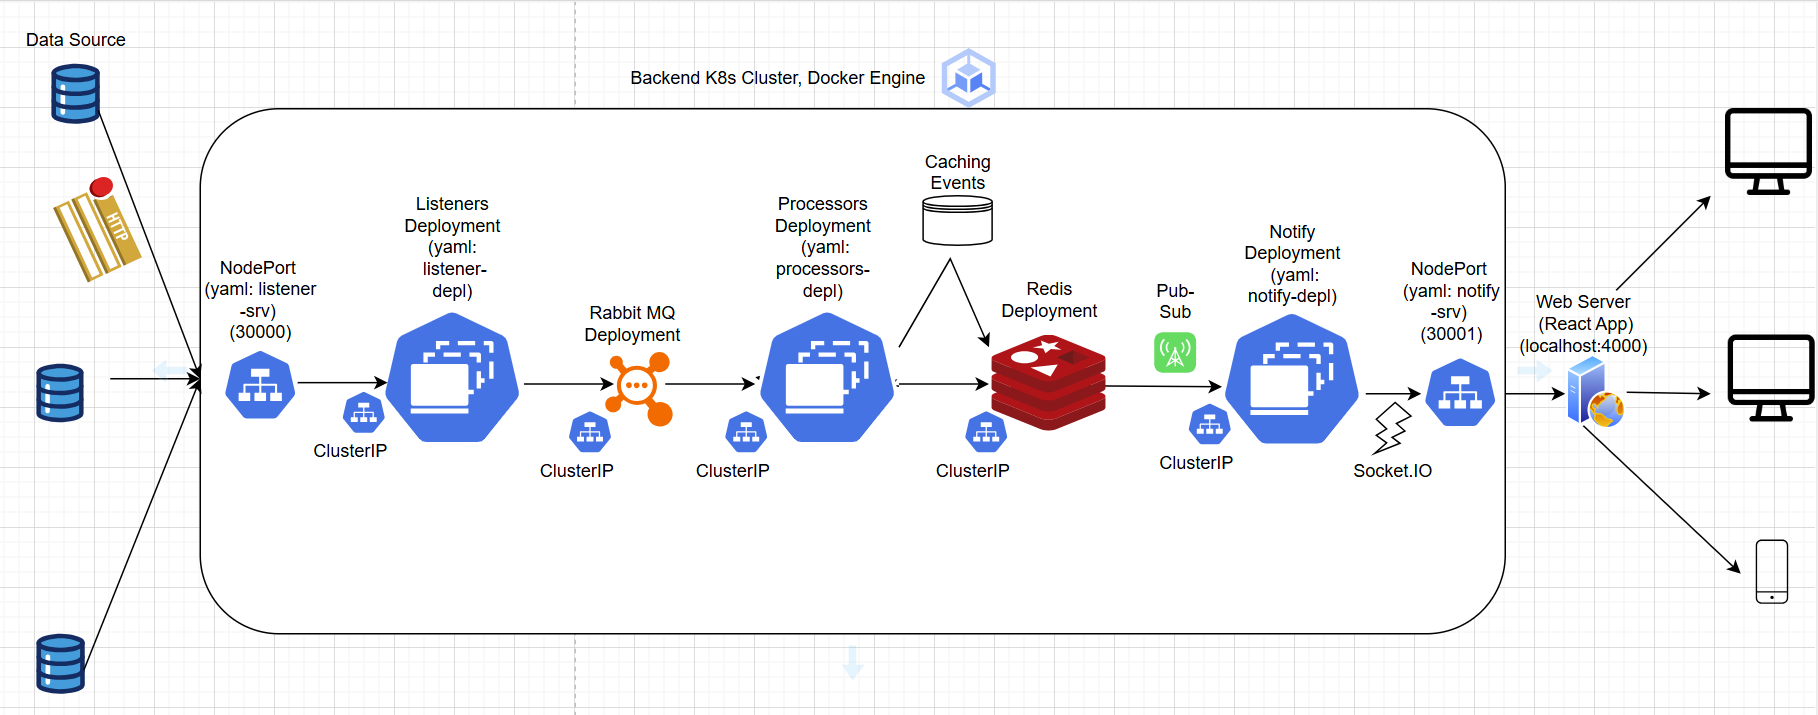
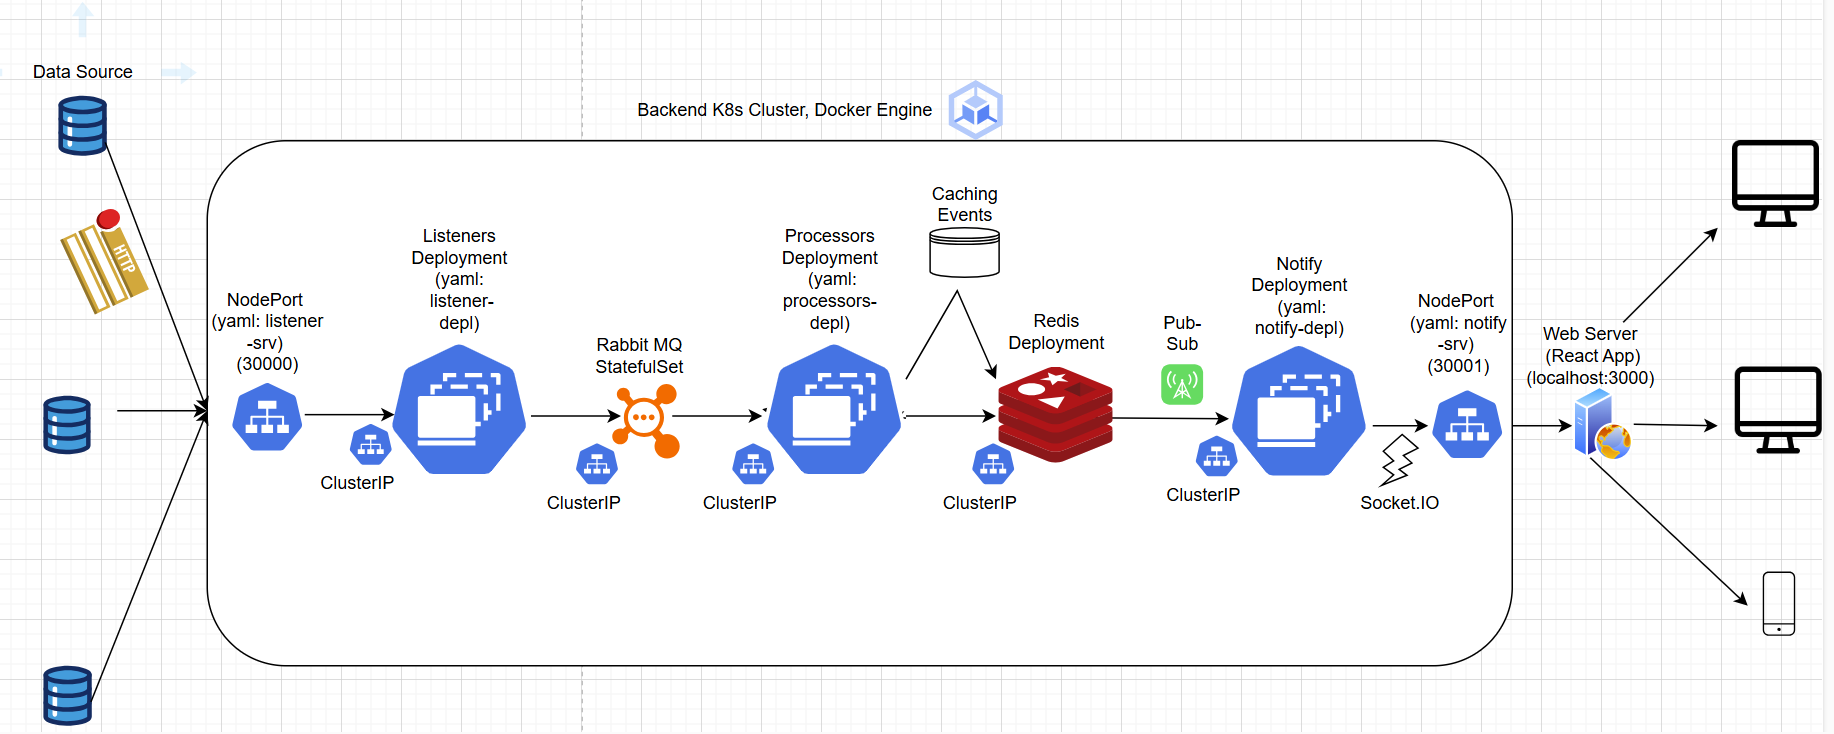
WIP

diff --git a/backend/listener-srv/src/config/config.ts b/backend/listener-srv/src/config/config.ts
@@ -6,7 +6,7 @@ dotenv.config({ path: __dirname + '../../../.env' });
 const Settings: Config = {
     port: process.env.PORT ? parseInt(process.env.PORT) : 4001,
     from_listener_queue_name: process.env.FROM_LISTENER_QUEUE_NAME || 'raw-alerts',
-    rabbit_address: process.env.MODE === 'development' ? 'amqp://guest:guest@localhost:5672' : `amqp://admin:password@rabbitmq-cluster-ip-srv`,
+    rabbit_address: process.env.MODE === 'development' ? 'amqp://guest:guest@host.docker.internal' : `amqp://admin:password@rabbitmq-cluster-ip-srv`,
 };
 
 export default Settings;

diff --git a/backend/alert-generator/src/index.ts b/backend/alert-generator/src/index.ts
@@ -18,7 +18,9 @@ rl.question('How many requests per minute? ', (answer) => {
     }
 
     const interval = 60000 / requestsPerMinute;
-    const url = 'http://localhost:30000/api/alerts'; // Replace with the actual URL of listener0srv
+    const port = process.env.PORT || 4000; // Default port if not provided in environment variables
+    const address = process.env.ADDRESS || 'localhost'
+    const url = `http://${address}:${port}/api/alerts`; // Replace with the actual URL of listener0srv
 
     const sendRequest = () => {
         const event = {

diff --git a/backend/listener-srv/src/index.ts b/backend/listener-srv/src/index.ts
@@ -4,13 +4,11 @@ import { router } from './routers';
 import { connectRabbit } from "./common";
 
 const app = express();
-const PORT = Settings.port;
-
 app.use(express.json());
 app.set("trust proxy", 1)
 app.use('/api', router);
 
-app.listen(PORT, "0.0.0.0", async() => {
-    console.log('Alert Listerner - listening on port ' + PORT);
+app.listen(Settings.port, "0.0.0.0", async() => {
+    console.log('Alert Listerner - listening on port ' + Settings.port);
     await connectRabbit();
 });

diff --git a/backend/listener-srv/src/controllers/alerts.ts b/backend/listener-srv/src/controllers/alerts.ts
@@ -14,6 +14,7 @@ export const postAlertHandler = asyncHandler(async (req, res) => {
         typeof event.duration !== 'number'
     ) {
         res.status(400).json('Invalid event data');
+        res.end();
         return;
     }
 

diff --git a/README.md b/README.md
@@ -7,69 +7,74 @@
 
 ## Intro
 
-This system received emergency alerts from various sources in real-time and transfers them to vast number of clients, informing them of the danger⚠.
+This system receives emergency alerts from various sources in real-time and transfers them to a vast number of clients, informing them of the danger⚠.
 
 ## Overview
 
-This repo consists of the built in front-end React.js application, and a back-end, microservices based Node.js server consists of three microservices written in typescript.
+This repo consists of the built-in front-end React.js application, and a back-end, microservices-based Node.js server consisting of three microservices written in TypeScript.
+
+The root folder contains the frontend folder given in the task, the backend folder which contains most of the content - each microservice has a folder. It also contains a Skaffold file - will be explained later. There is the assets folder for the screenshots and docs folder for more profound documentation - design motivation.
 
 ### Alert Generator (alert-generator)🤖
 
-A script which mimics a real-life alert resource.
-Sends random alerts, in a frequency told by the user.
-Written in typescript.
+A script that mimics a real-life alert resource.
+Sends random alerts, at a frequency set by the user.
+Written in TypeScript.
 
 ### Listener Microservice (listener-srv)📡
 
 The data's entry point to the back-end.
 Responsible for handling the HTTP requests containing the raw data sent from the source. The listener(s) listen to incoming data and enqueue it in the RabbitMQ message broker.
 
-### Rabbit MQ🐰
+### RabbitMQ🐰
 
-The message broker between the Listener and the Processor Microservice (see the following). It is being deployed in the cluster within a deployment of its own
+The message broker between the Listener and the Processor Microservice (see the following). It is deployed in the cluster within a deployment of its own.
 
 ### Processor Microservice (process-srv)⚙
 
-Processes the data by aggregating events using Redis, also responsible for handling data duplication. Fetches the data from the RabbitMQ and transfers it with the Notify Microservice using Redis Pub-Sub functionality.
+The actual "worker". Processes the data by aggregating events using Redis, also responsible for handling data duplication. Fetches the data from RabbitMQ and transfers it to the Notify Microservice using Redis Pub-Sub functionality.
 
 ### Redis📩
 
-Stores event data for event aggregation and used as a message distributor to the Notify Microservice by broadcasting the messages to all the instances. It is being deployed in the cluster within a deployment of its own.
+Stores event data for event aggregation and is used as a message distributor to the Notify Microservice by broadcasting the messages to all the instances. It is deployed in the cluster within a deployment of its own.
 
 ### Notify Microservice (notify-srv)🔔
 
-Informs the clients of new alerts by subscribing to Redis, getting the events' data from the designated channel which the events are published to by the Processor Microservice. Informs the clients of new alerts by leveraging socket.io library.
+Informs the clients of new alerts by subscribing to Redis, getting the events' data from the designated channel which the events are published to by the Processor Microservice. Informs the clients of new alerts by leveraging the socket.io library.
 
 ## Setup
 
-This guide assumes your React.js app has already been set.
-It also assumes you Node.js and Docker installed in your PC (Docker's k8s engine was used for the development of this).
-Every folder has its own manifests which can be found in the infra folder. Some of these manifests exist in more than one microservice folder because it might be used there as well.
+This guide assumes your React.js app has already been set up.
+It also assumes you have Node.js and Docker installed on your PC (Docker's k8s engine was used for the development of this).
 
-`git clone https://github.com/Falupi22/alert-system-exercise
-`
+`git clone https://github.com/Falupi22/alert-system-exercise`
 
 Now open cmd in the folder generated. Then type the following:
 
-`cd backend`
-`yarn install`
+`cd backend && cd ./<folder-name> && yarn install`
 
-This should install all the modules of all the microservice.
-The ports 30000 and 30001 were used arbitrarily for the entry point of some components in the system, but this can be change by setting .env variables within the microservice/app folder of in the config file itself.
+This should install all the modules of all the microservices.
+The ports 30000 and 30001 were used arbitrarily for the entry point of some components in the system, but this can be changed by setting NodePort values within the corresponding yaml files.
 
-Hit `yarn dev` for running a single, local instance of each microservice.
+Once you're in a microservice's folder, type `yarn dev` to run a single, local instance of it.
+Each folder contains the code (./src) and the yaml files (./infra).
 
-A full working system, receiving data, should result in the following:
+If you wish to run it within a docker, type the following:
+`docker pull falupi22/<folder-name> (Optional)`
+`docker build -t falupi22/<folder-name> -f ./DockerFile .`
+`docker run falupi22/<folder-name>`
+
+A fully working system, receiving data, should result in the following:
 
 ![Web page](assets/live.png)
 
 ### Skaffold
 
-Skaffold is an easy way to deploy the entire back-end as a local kubernetes cluster using only one command! skaffold.yaml file contains all the information necessary for deploying the app. It is also watching for file changing and updated the cluster automatically.
+Skaffold is an easy way to deploy the entire back-end as a local Kubernetes cluster using only one command! The skaffold.yaml file contains all the information necessary for deploying the app. It also watches for file changes and updates the cluster automatically.
 
 To install - https://skaffold.dev/docs/install/
 
-Once ready, make sure to locate yourself in ./backend, and the type
+Once ready, make sure to locate yourself in ./backend, and then type
 `skaffold dev`
 
 It might take a few minutes, but once it's ready, it handles everything.
@@ -81,6 +86,8 @@ You should see the following:
 
 ## Notes
 
-- The frontend was tweaked due to mismatching names of parameters within the task (sentTime - startTime, duration - endTime). I sticked with the names in the task.
+- There is a NodePort service for the UI management tools of the RabbitMQ. It is included within the yaml but is not necessary for a functioning system.
+  
+- The frontend was tweaked due to mismatching names of parameters within the task (sentTime - startTime, duration - endTime). I stuck with the names given by the task.
 
-- The port of the socket IO server has been replaced (4000-30001) for convenience issue (NodePort port is usually a 5 digits number).
+- The port of the socket IO server has been replaced (4000-30001) for convenience issues (NodePort port is usually a 5-digit number).
